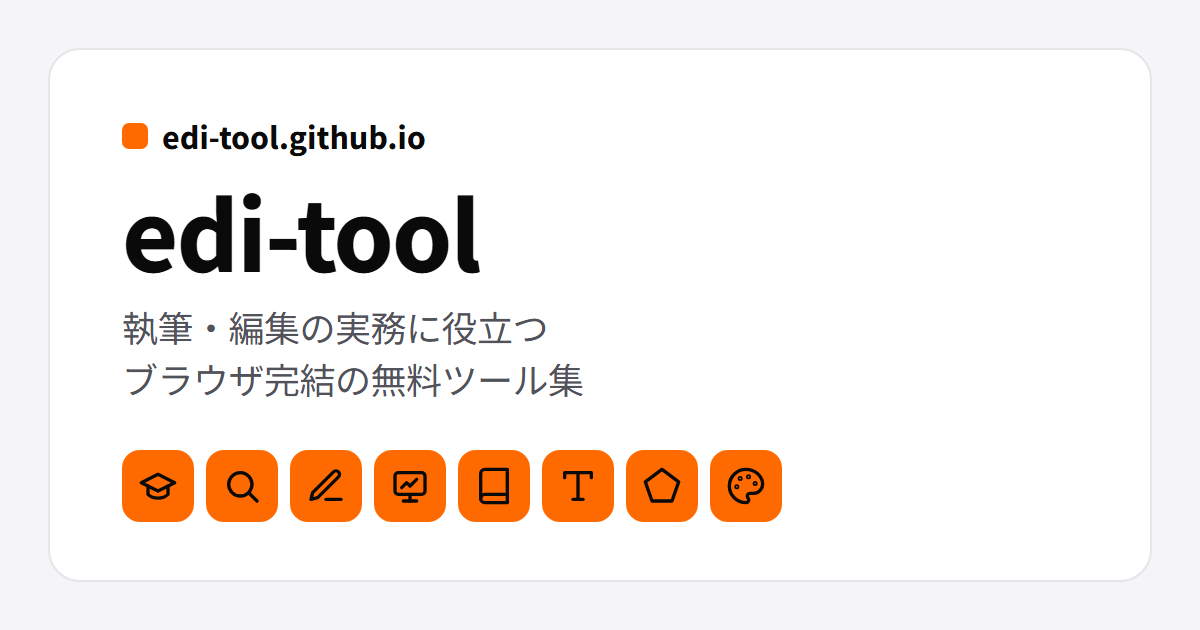
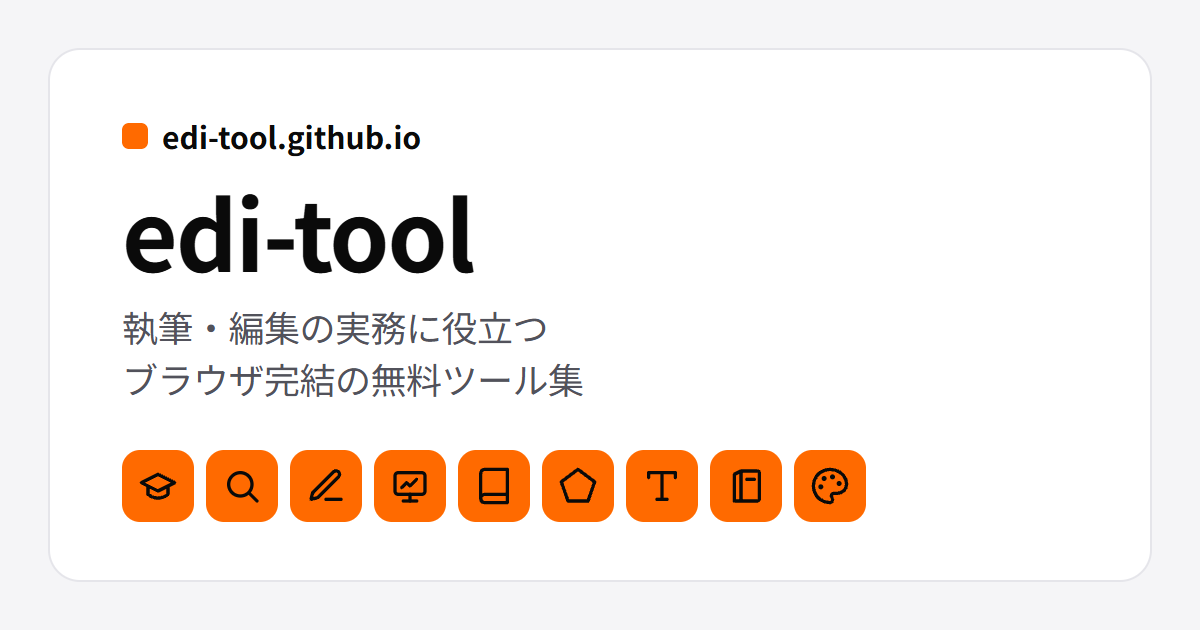
feat: 立体書影さん（cover_image）をハブに掲載
カード・sitemap・README表・404一覧・説明文・OGP定義とハブOGP画像をそろえて追加。

diff --git a/scripts/ogp/gen.js b/scripts/ogp/gen.js
@@ -1,4 +1,4 @@
-// ハブと8ツールの共有用 OGP 画像（1200×630）を HTML テンプレートから生成する。
+// ハブと9ツールの共有用 OGP 画像（1200×630）を HTML テンプレートから生成する。
 // 使い方は scripts/ogp/README.md を参照。出力先: scripts/ogp/out/<名前>.png
 // → 各リポジトリ直下の ogp.png として配置する（ハブは hub.png → このリポジトリの ogp.png）。
 const { chromium } = require('playwright');
@@ -19,6 +19,7 @@ const ICONS = {
   moji: I('<polyline points="4 7 4 4 20 4 20 7"></polyline><line x1="9" y1="20" x2="15" y2="20"></line><line x1="12" y1="4" x2="12" y2="20"></line>'),
   qr: I('<rect x=\"3\" y=\"3\" width=\"7\" height=\"7\" rx=\"1\"/><rect x=\"14\" y=\"3\" width=\"7\" height=\"7\" rx=\"1\"/><rect x=\"3\" y=\"14\" width=\"7\" height=\"7\" rx=\"1\"/><path d=\"M14 14h3v3h-3z\"/><path d=\"M20 14v.01\"/><path d=\"M14 20h.01\"/><path d=\"M17 20h4v-3\"/>'),
   zukei: I('<path d="M12 2 22 9.5 18 21H6L2 9.5Z"></path>'),
+  cover: I('<path d="M9 3h10a1 1 0 0 1 1 1v16a1 1 0 0 1-1 1H9"></path><path d="M9 3 5 5v16h4z"></path><path d="M12.5 8h4.5"></path>'),
   palette: I('<circle cx="13.5" cy="6.5" r=".5"></circle><circle cx="17.5" cy="10.5" r=".5"></circle><circle cx="8.5" cy="7.5" r=".5"></circle><circle cx="6.5" cy="12.5" r=".5"></circle><path d="M12 2C6.5 2 2 6.5 2 12s4.5 10 10 10c.926 0 1.648-.746 1.648-1.688 0-.437-.18-.835-.437-1.125-.29-.289-.438-.652-.438-1.125a1.64 1.64 0 0 1 1.668-1.668h1.996c3.051 0 5.555-2.503 5.555-5.554C21.965 6.012 17.461 2 12 2z"></path>'),
 };
 const TOOLS = [
@@ -30,6 +31,7 @@ const TOOLS = [
   { out: 'zukei-drafter.png', icon: 'zukei', name: '図形作成さん', tag: '数値入力から2D/3D図形を生成', chips: ['PNG・SVG', '教材・プリント向け', 'ブラウザ完結'] },
   { out: 'sku-to-qr.png', icon: 'qr', name: 'QRコードさん', tag: 'SKUから書籍のQRコードを作成', chips: ['東洋館EC用', '印刷用 1600px', 'ブラウザ完結'], hub: false },
   { out: 'moji-counter.png', icon: 'moji', name: '文字数集計さん', tag: '貼るだけで文字数がすぐ分かる', chips: ['改行・空白を除く', '上限までの残り', 'ブラウザ完結'] },
+  { out: 'cover_image.png', icon: 'cover', name: '立体書影さん', tag: 'カバーPDFから、立体書影を作成', chips: ['判型・背幅どおり', '透過PNG', 'ブラウザ完結'] },
   { out: 'color-palette.png', icon: 'palette', name: '配色提案さん', tag: '印象語から配色を探して、AIに渡す', chips: ['24案を比較', 'AI向け指示文', 'ブラウザ完結'] },
 ];
 const css = (F ? `

diff --git a/index.html b/index.html
@@ -1,7 +1,7 @@
 ---
 layout: null
 title: 編集・制作の実務ツール集
-description: 執筆・編集の実務に役立つ、ブラウザ完結の無料ツール集。漢字の学年判定、表外漢字の検出、表記ゆれの統一、ページ数・背幅の概算、印象語からの配色提案。すべてブラウザ内で完結し、ファイルは外部送信しません。
+description: 執筆・編集の実務に役立つ、ブラウザ完結の無料ツール集。漢字の学年判定、表外漢字の検出、表記ゆれの統一、ページ数・背幅の概算、カバーPDFからの立体書影づくり、印象語からの配色提案。すべてブラウザ内で完結し、ファイルは外部送信しません。
 lang: ja
 ---
 <!DOCTYPE html>
@@ -332,6 +332,15 @@ footer a[href="https://edi-tool.github.io/"] { display: inline-flex; align-items
                     <span class="tool-name">ページ調整さん</span>
                     <span class="tool-desc">台割りに合うページ数と、背幅の目安を出します。</span>
                     <span class="tool-tag">数値入力</span>
+                </span>
+                <svg class="tool-arrow" viewBox="0 0 24 24" fill="none" stroke="currentColor" stroke-width="2" stroke-linecap="round" stroke-linejoin="round" aria-hidden="true"><line x1="5" y1="12" x2="19" y2="12"></line><polyline points="12 5 19 12 12 19"></polyline></svg>
+            </a>
+            <a class="tool-card" href="https://edi-tool.github.io/cover_image/">
+                <span class="tool-icon" aria-hidden="true"><svg viewBox="0 0 24 24" fill="none" stroke="currentColor" stroke-width="2" stroke-linecap="round" stroke-linejoin="round"><path d="M9 3h10a1 1 0 0 1 1 1v16a1 1 0 0 1-1 1H9"></path><path d="M9 3 5 5v16h4z"></path><path d="M12.5 8h4.5"></path></svg></span>
+                <span class="tool-body">
+                    <span class="tool-name">立体書影さん</span>
+                    <span class="tool-desc">カバーのPDFから、判型と背幅どおりの立体書影を作ります。</span>
+                    <span class="tool-tag">PDF・PNG</span>
                 </span>
                 <svg class="tool-arrow" viewBox="0 0 24 24" fill="none" stroke="currentColor" stroke-width="2" stroke-linecap="round" stroke-linejoin="round" aria-hidden="true"><line x1="5" y1="12" x2="19" y2="12"></line><polyline points="12 5 19 12 12 19"></polyline></svg>
             </a>

diff --git a/scripts/ogp/favicon.js b/scripts/ogp/favicon.js
@@ -1,4 +1,4 @@
-// ハブと9ツール（社内向けの QRコードさんを含む）のファビコンを生成する。蛍光オレンジの角丸に、ハブのカードと同じ線のアイコンを墨で載せる。
+// ハブと10ツール（社内向けの QRコードさんを含む）のファビコンを生成する。蛍光オレンジの角丸に、ハブのカードと同じ線のアイコンを墨で載せる。
 // 使い方は scripts/ogp/README.md を参照。出力先: scripts/ogp/out/favicon/<リポジトリ名>/
 //   favicon.svg（主）・favicon.ico（16/32/48）・favicon.png（192）・apple-touch-icon.png（180、角丸なし）
 //   黒板補正さんだけ icon-192.png・icon-512.png（manifest.json 用）も出す。
@@ -17,6 +17,7 @@ const ICONS = {
   'kanji-checker': '<circle cx="11" cy="11" r="7"/><line x1="21" y1="21" x2="16.65" y2="16.65"/>',
   'hyoki-checker': '<path d="M12 20h9"/><path d="M16.5 3.5a2.1 2.1 0 0 1 3 3L7 19l-4 1 1-4Z"/>',
   'moji-counter': '<polyline points="4 7 4 4 20 4 20 7"/><line x1="9" y1="20" x2="15" y2="20"/><line x1="12" y1="4" x2="12" y2="20"/>',
+  'cover_image': '<path d="M9 3h10a1 1 0 0 1 1 1v16a1 1 0 0 1-1 1H9"/><path d="M9 3 5 5v16h4z"/><path d="M12.5 8h4.5"/>',
   'color-palette': '<circle cx="13.5" cy="6.5" r="1.2" fill="currentColor"/><circle cx="17.5" cy="10.5" r="1.2" fill="currentColor"/><circle cx="8.5" cy="7.5" r="1.2" fill="currentColor"/><circle cx="6.5" cy="12.5" r="1.2" fill="currentColor"/><path d="M12 2C6.5 2 2 6.5 2 12s4.5 10 10 10c.926 0 1.648-.746 1.648-1.688 0-.437-.18-.835-.437-1.125-.29-.289-.438-.652-.438-1.125a1.64 1.64 0 0 1 1.668-1.668h1.996c3.051 0 5.555-2.503 5.555-5.554C21.965 6.012 17.461 2 12 2z"/>',
   'kokuban-adjust': '<rect x="3" y="4" width="18" height="13" rx="2"/><path d="M8 21h8"/><path d="M12 17v4"/><path d="m7 13 3-3 2 2 4-4"/>',
   'page-count': '<path d="M4 19.5A2.5 2.5 0 0 1 6.5 17H20"/><path d="M6.5 2H20v20H6.5A2.5 2.5 0 0 1 4 19.5v-15A2.5 2.5 0 0 1 6.5 2z"/>',

diff --git a/404.html b/404.html
@@ -176,6 +176,7 @@ footer a[href="https://edi-tool.github.io/"] { display: inline-flex; align-items
             <li><a href="https://edi-tool.github.io/kokuban-adjust/">黒板補正さん</a></li>
             <li><a href="https://edi-tool.github.io/zukei-drafter/">図形作成さん</a></li>
             <li><a href="https://edi-tool.github.io/page-count/">ページ調整さん</a></li>
+            <li><a href="https://edi-tool.github.io/cover_image/">立体書影さん</a></li>
         </ul>
     </main>
     <footer>&copy; 2026 ISHIKAWA, Natsuki | MIT License</footer>

diff --git a/scripts/ogp/README.md b/scripts/ogp/README.md
@@ -1,6 +1,6 @@
 # OGP 画像とファビコンの生成
 
-ハブ（このリポジトリ）と8ツールの共有用画像（1200×630、Noto Sans JP）を
+ハブ（このリポジトリ）と9ツールの共有用画像（1200×630、Noto Sans JP）を
 HTML テンプレートから生成するスクリプト。サイト本体には依存を持ち込まないよう、
 このディレクトリだけで完結させ、`_config.yml` の `exclude` で公開対象から外している。
 
@@ -10,7 +10,7 @@ HTML テンプレートから生成するスクリプト。サイト本体には
 cd scripts/ogp
 npm install
 npx playwright install chromium   # 初回のみ（手元に Chromium があれば CHROMIUM_PATH で指定してもよい）
-npm run gen                        # → out/ に OGP 9 枚
+npm run gen                        # → out/ に OGP 11 枚
 node favicon.js                    # → out/favicon/<リポジトリ名>/ にファビコン一式
 ```
 

diff --git a/README.md b/README.md
@@ -19,6 +19,7 @@
 | 黒板補正さん | 黒板・ホワイトボード写真の傾き補正 | https://edi-tool.github.io/kokuban-adjust/ |
 | 図形作成さん | 数値入力から2D・3D図形を生成しPNG・SVGで保存 | https://edi-tool.github.io/zukei-drafter/ |
 | ページ調整さん | ページ数提案・背幅概算 | https://edi-tool.github.io/page-count/ |
+| 立体書影さん | 展開カバーPDFから判型・背幅どおりの立体書影PNGを作成 | https://edi-tool.github.io/cover_image/ |
 
 ※ 社内用の `sku-to-qr` は `noindex` のため一覧・サイトマップに含めない。
 
